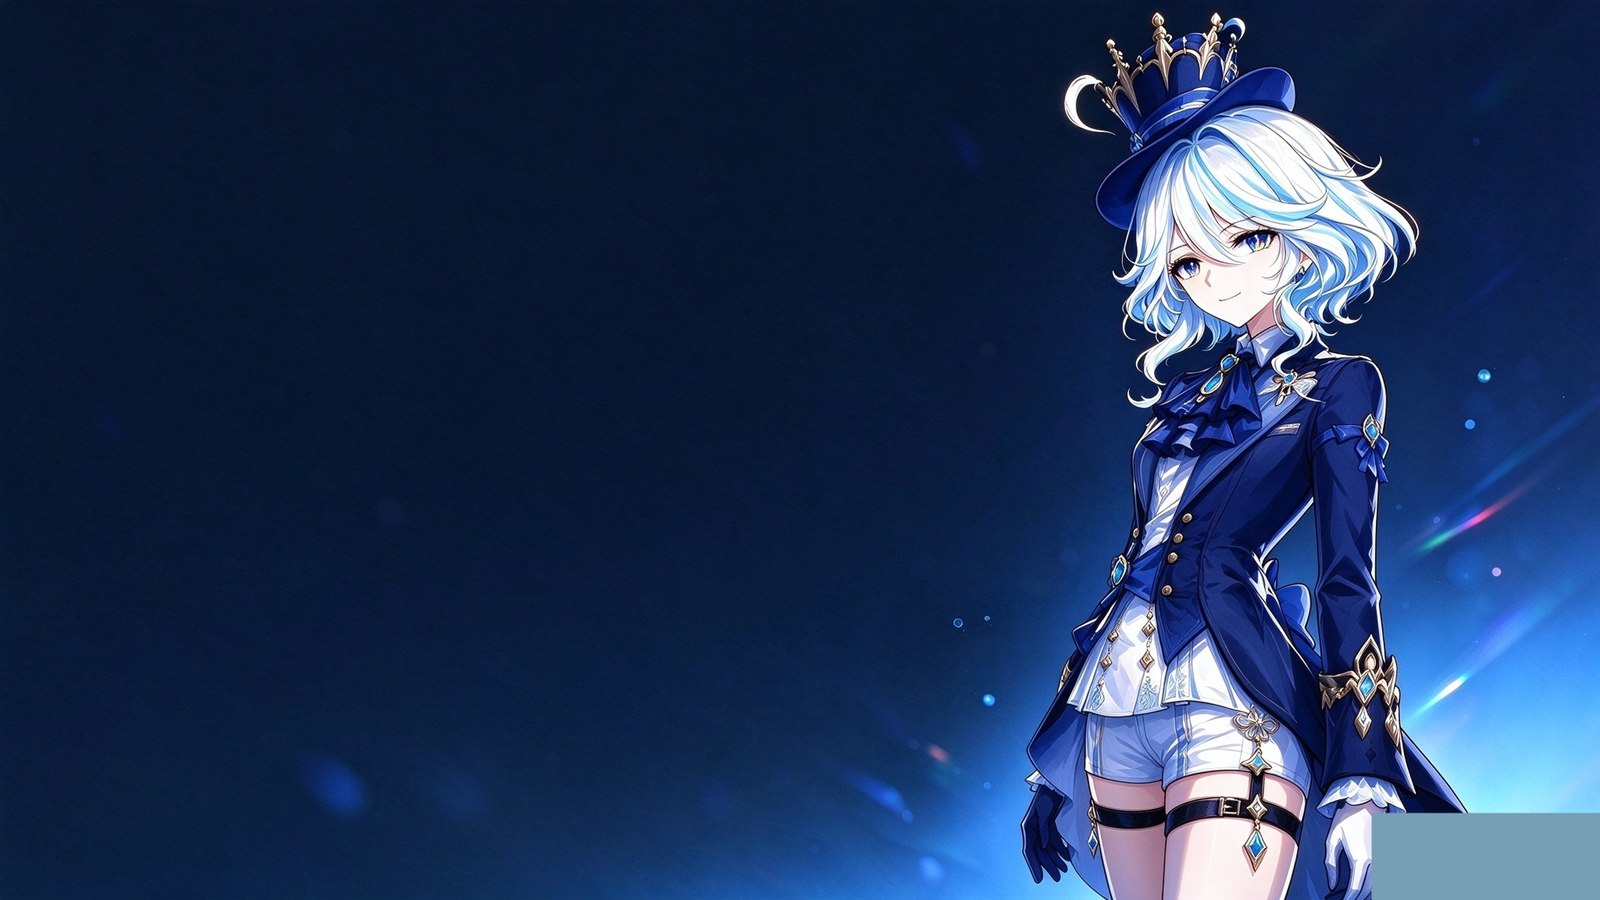
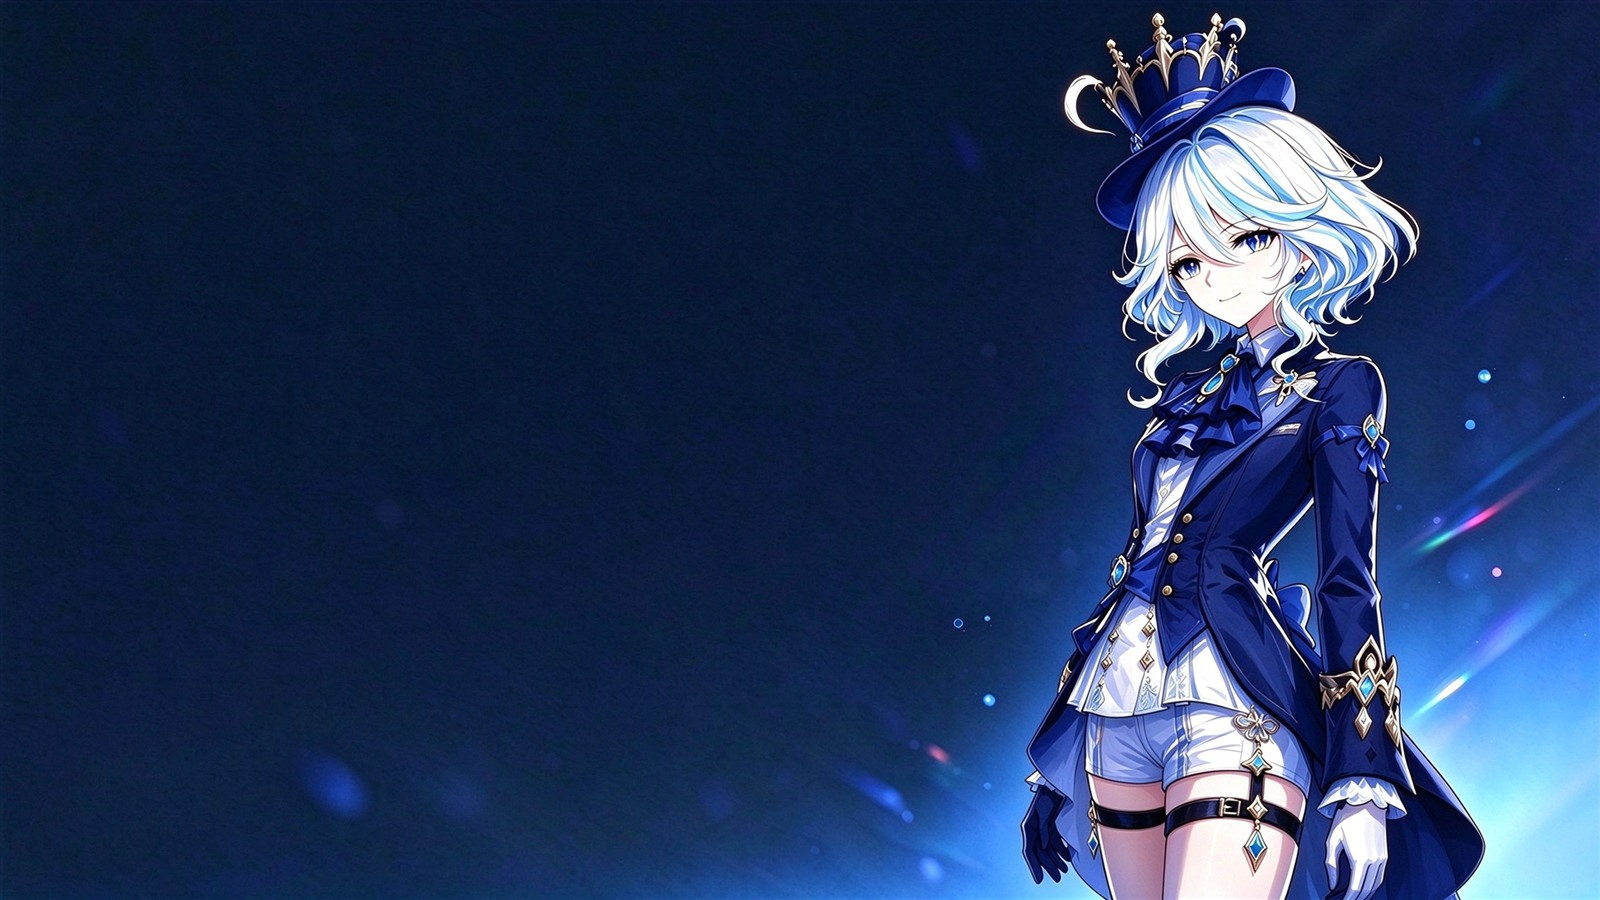
Add files via upload

diff --git a/index.html b/index.html
@@ -28,11 +28,19 @@
       box-sizing: border-box;
     }
 
+    /* ============ 2.5 页面底色：深蓝兜底 ============
+       任何背景图没盖到的地方（如边缘、加载中）都用深蓝，
+       不会露出浏览器默认的白色/浅灰色块 */
+    html {
+      background-color: #0d1b40;
+    }
+
     /* ============ 3. 背景：芙宁娜立绘铺满全屏，不随滚动 ============
        background-attachment: fixed 让背景固定不动，
        内容滚动时背景像"舞台幕布"一样钉在屏幕上 */
     body {
       font-family: "Segoe UI", "Microsoft YaHei", "PingFang SC", sans-serif;
+      background-color: #0d1b40;             /* 深蓝底色兜底（防露浅灰） */
       background-image: url('bg.jpg');   /* 背景图：芙宁娜在右侧，左侧留白放内容 */
       background-size: cover;            /* 铺满整个屏幕，超出部分自动裁掉 */
       background-position: center;       /* 居中 */
@@ -41,19 +49,41 @@
       line-height: 1.7;
     }
 
-    /* 背景遮罩层：盖在背景图上、内容底下，防止文字看不清 */
-    .overlay {
-      position: fixed;                   /* 铺满全屏、不滚动 */
-      top: 0; left: 0; right: 0; bottom: 0;
-      background: var(--mask);           /* 半透明黑色 */
-      z-index: 0;                        /* 在内容（z-index 1）下面 */
-      pointer-events: none;              /* 不挡鼠标点击 */
-    }
-
-    /* 所有内容放在遮罩上面一层 */
+    /* 所有内容放在背景上面一层 */
     main {
       position: relative;
       z-index: 1;
+    }
+
+    /* ============ 3.5 滚动条美化：金色细条 + 透明轨道 ============
+       内容变长出现滚动时，默认的浅灰滚动条轨道换成透明，
+       滑块用半透明金色细条，和芙宁娜主题搭配 */
+    /* Chrome / Edge / Safari */
+    ::-webkit-scrollbar {
+      width: 6px;               /* 细条 */
+      height: 6px;
+    }
+    ::-webkit-scrollbar-track {
+      background: #0d1b40;     /* 轨道用深蓝实色兜底：任何浏览器都不会露出浅灰 */
+    }
+    ::-webkit-scrollbar-thumb {
+      background: rgba(212, 175, 55, 0.55);   /* 半透明金 */
+      border-radius: 3px;
+    }
+    ::-webkit-scrollbar-thumb:hover {
+      background: rgba(212, 175, 55, 0.85);   /* 悬停加深 */
+    }
+    ::-webkit-scrollbar-button {
+      height: 0;                /* 去掉上下箭头按钮 */
+      width: 0;
+    }
+    ::-webkit-scrollbar-corner {
+      background: #0d1b40;     /* 角落也深蓝，不留浅灰 */
+    }
+    /* Firefox */
+    html {
+      scrollbar-width: thin;
+      scrollbar-color: rgba(212, 175, 55, 0.55) #0d1b40;
     }
 
     /* ============ 4. 顶部导航：半透明深蓝 + 白字 + 悬停金线 ============ */
@@ -105,7 +135,7 @@
     .page {
       display: none;
       padding: 48px 20px;
-      min-height: 70vh;
+      min-height: 100vh;         /* 每个页面至少占满一屏，背景图才不会在下方露边 */
       position: relative;          /* 页面专属滤镜层的定位基准 */
       /* 每个页面都有自己的背景图：铺满 + 居中 + 固定不随滚动 */
       background-size: cover;
@@ -171,7 +201,18 @@
 
     .container {
       max-width: 720px;
+      width: 100%;
       margin: 0 auto;
+    }
+
+    /* 电脑端：内容区收窄到屏幕左侧约 40% 宽度，靠左对齐，
+       给右侧背景的芙宁娜留出完整画面 */
+    @media (min-width: 768px) {
+      .container {
+        width: 40%;
+        margin-left: 24px;   /* 左边距小一点，卡片靠左 */
+        margin-right: auto;
+      }
     }
 
     /* ============ 6. 首页：头像 + 名字 + 简介（居中） ============ */
@@ -325,9 +366,6 @@
   </style>
 </head>
 <body>
-  <!-- 背景遮罩层：让背景上的文字清楚 -->
-  <div class="overlay"></div>
-
   <!-- 顶部导航：href 让地址栏带锚点，onclick 直接切页（详见底部 JS） -->
   <nav>
     <a href="#home" class="active" onclick="showPage('home')">首页</a>
